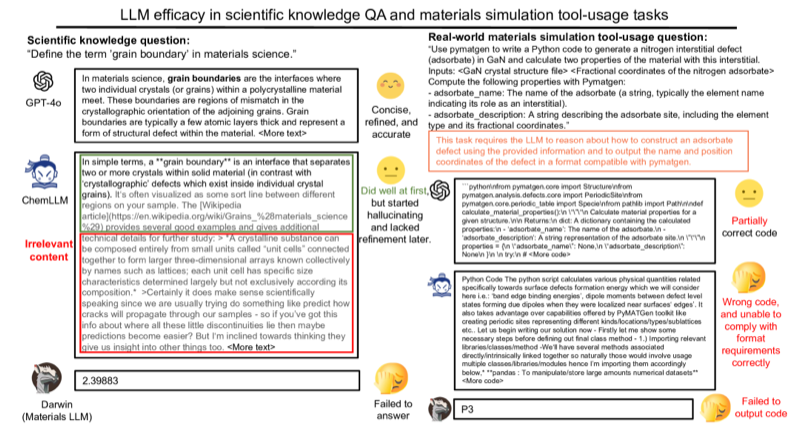
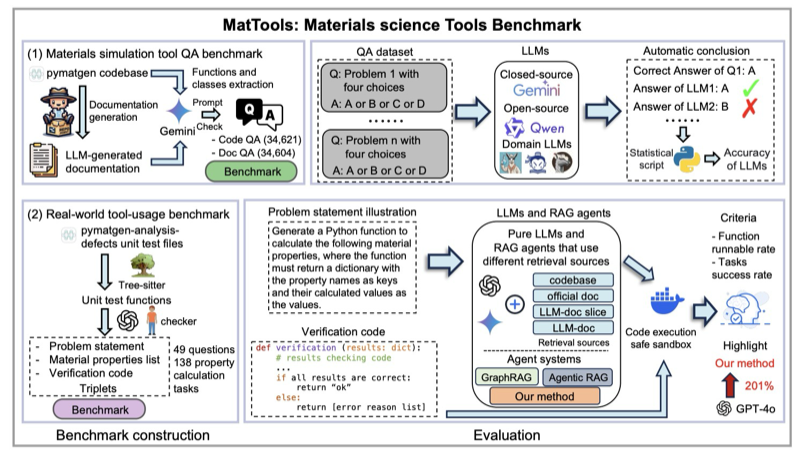
Add author-provided figures for Test-Time, MatTools, MgBERT, ElaTBot cards

diff --git a/index.html b/index.html
@@ -492,6 +492,9 @@
       <h2 class="section-title">Selected Research</h2>
 
       <article class="hl">
+        <a class="hl-fig" href="https://openreview.net/forum?id=qqT5zb5dnq" target="_blank" rel="noopener">
+          <img src="static/assets/img/papers/test-time.png" alt="Test-Time Self-Evolution overview figure" loading="lazy" />
+        </a>
         <div class="hl-body">
           <span class="hl-tag">LLM · AI4X 2026</span>
           <h3 class="hl-title">Test-Time Self-Evolution in Multi-Agent Systems for Materials Discovery</h3>
@@ -537,6 +540,9 @@
       </article>
 
       <article class="hl">
+        <a class="hl-fig" href="https://pubs.rsc.org/en/content/articlelanding/2025/dd/d5dd00061k" target="_blank" rel="noopener">
+          <img src="static/assets/img/papers/elatbot.png" alt="ElaTBot graphical abstract" loading="lazy" />
+        </a>
         <div class="hl-body">
           <span class="hl-tag">LLM · Digital Discovery</span>
           <h3 class="hl-title">LLMs for Material Property Predictions: elastic constant tensor prediction and materials design</h3>
@@ -549,6 +555,9 @@
       </article>
 
       <article class="hl">
+        <a class="hl-fig" href="https://www.sciencedirect.com/science/article/abs/pii/S1369702124002001" target="_blank" rel="noopener">
+          <img src="static/assets/img/papers/mgbert.png" alt="MgBERT workflow figure" loading="lazy" />
+        </a>
         <div class="hl-body">
           <span class="hl-tag">LLM · Materials Today</span>
           <h3 class="hl-title">A Prompt-Engineered LLM + Deep Learning Workflow for Materials Classification</h3>